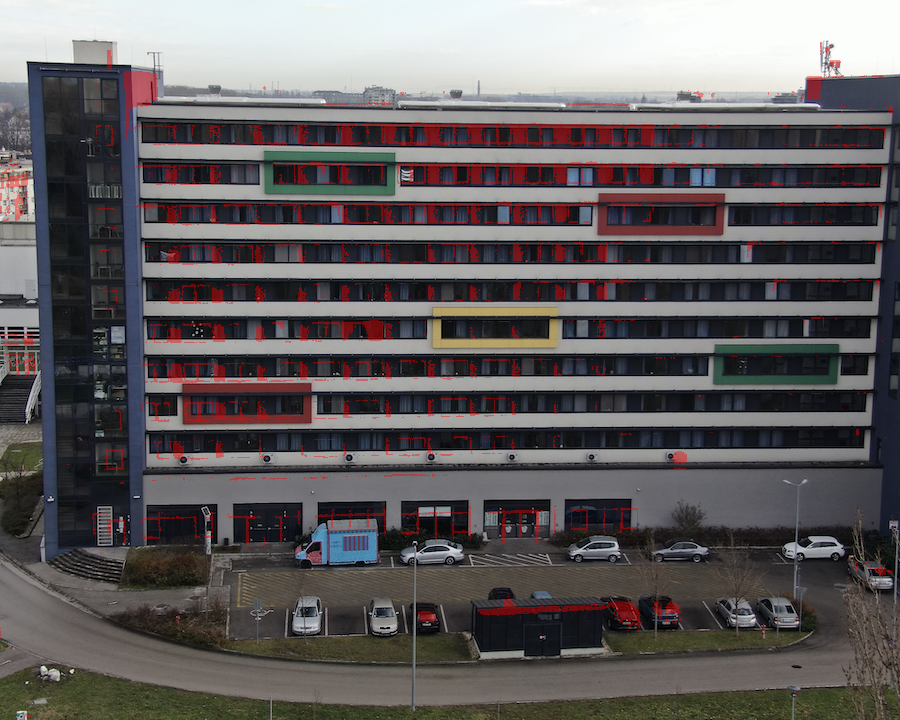
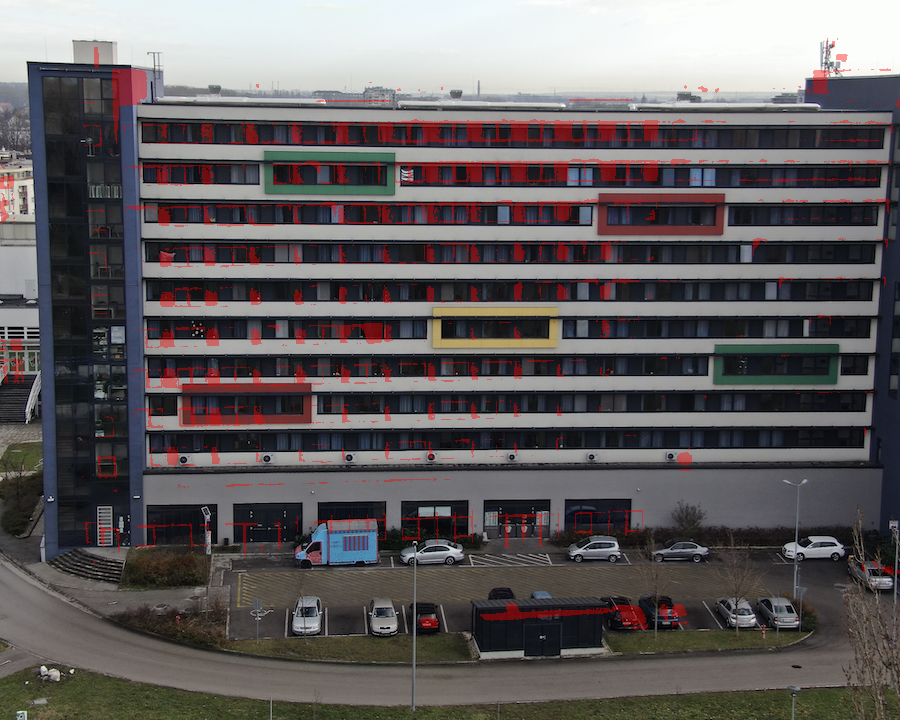
Fix Alignment and update images to v2

diff --git a/frontend/src/pages/Dashboard.jsx b/frontend/src/pages/Dashboard.jsx
@@ -107,8 +107,8 @@ export default function Dashboard() {
                     reportData: {
                         loss: "126,000", cost: "€15,120", co2: "25,200", target: "Uninsulated Panel Facade",
                         images: {
-                            rgb: "/gyor_pilot/building_student/rgb.jpg",
-                            thermal: "/gyor_pilot/building_student/thermal.jpg",
+                            rgb: "/gyor_pilot/building_student/rgb_v2.jpg",
+                            thermal: "/gyor_pilot/building_student/thermal_v2.jpg",
                             overlay: "/gyor_pilot/building_student/overlay.jpg", // Generated!
                             boxed: "/gyor_pilot/building_student/boxed.jpg"      // Generated!
                         }

diff --git a/backend/app_improved.py b/backend/app_improved.py
@@ -44,14 +44,19 @@ from pydantic import BaseModel, EmailStr
 # -----------------------------
 try:
     import cv2
+    CV2_AVAILABLE = True
+except ImportError:
+    cv2 = None
+    CV2_AVAILABLE = False
+
+try:
     import torch
     import torchvision.transforms as transforms
     from segment_anything import sam_model_registry, SamAutomaticMaskGenerator
     ML_AVAILABLE = True
 except ImportError:
-    print("WARNING: ML libraries (torch/cv2/segment_anything) not found. Running in LITE mode.")
+    print("WARNING: ML libraries (torch/segment_anything) not found. Running in LITE mode.")
     ML_AVAILABLE = False
-    cv2 = None
     torch = None
     transforms = None
     sam_model_registry = None
@@ -1624,7 +1629,7 @@ async def analyze(
     auto_register: str = Form(default="true"),  # NEW: allow disabling registration if needed
 ):
     # Check if ML/Image libs are available
-    if not ML_AVAILABLE or not IMAGE_LIBS_AVAILABLE:
+    if not (ML_AVAILABLE or CV2_AVAILABLE) or not IMAGE_LIBS_AVAILABLE:
         # Return a mock response if ML libs are missing (Vercel LITE mode)
         print("Warning: ML/Image libs missing but proceeding to try analysis...")
         pass
@@ -1699,7 +1704,7 @@ async def analyze(
     thr_img = _resize_max(thr_img, max_side=1024)
 
     # >>> KEY CHANGE: thermal → RGB registration
-    if _safe_bool(auto_register, default=True):
+    if _safe_bool(auto_register, default=True) and CV2_AVAILABLE:
         thr_img, registration_meta = register_thermal_to_rgb(vis_img, thr_img)
     else:
         # maintain old behavior if disabled

diff --git a/regenerate_analysis.py b/regenerate_analysis.py
@@ -20,8 +20,8 @@ PROJECTS = [
     },
     {
         "id": "building_student",
-        "rgb_path": GYOR_PILOT_DIR / "building_student/rgb.jpg",
-        "thermal_path": GYOR_PILOT_DIR / "building_student/thermal.jpg",
+        "rgb_path": GYOR_PILOT_DIR / "building_student/rgb_v2.jpg",
+        "thermal_path": GYOR_PILOT_DIR / "building_student/thermal_v2.jpg",
         "output_dir": GYOR_PILOT_DIR / "building_student"
     }
 ]
